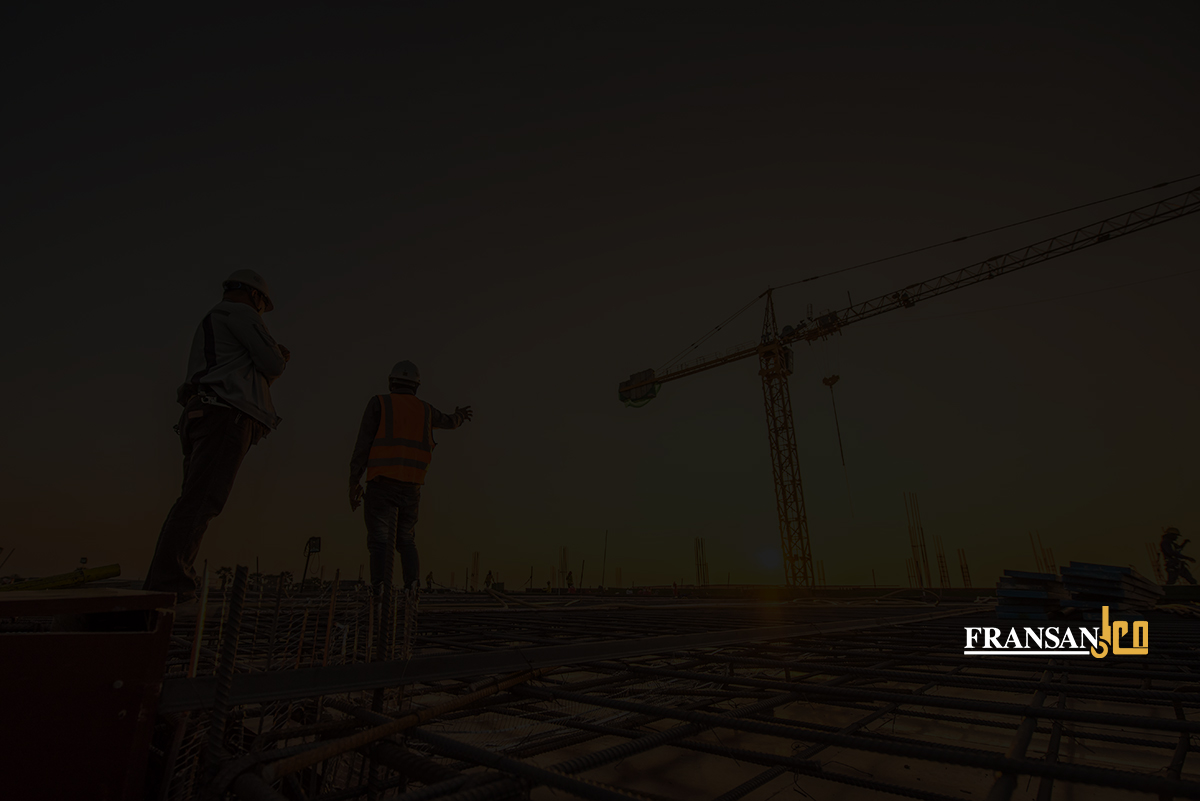
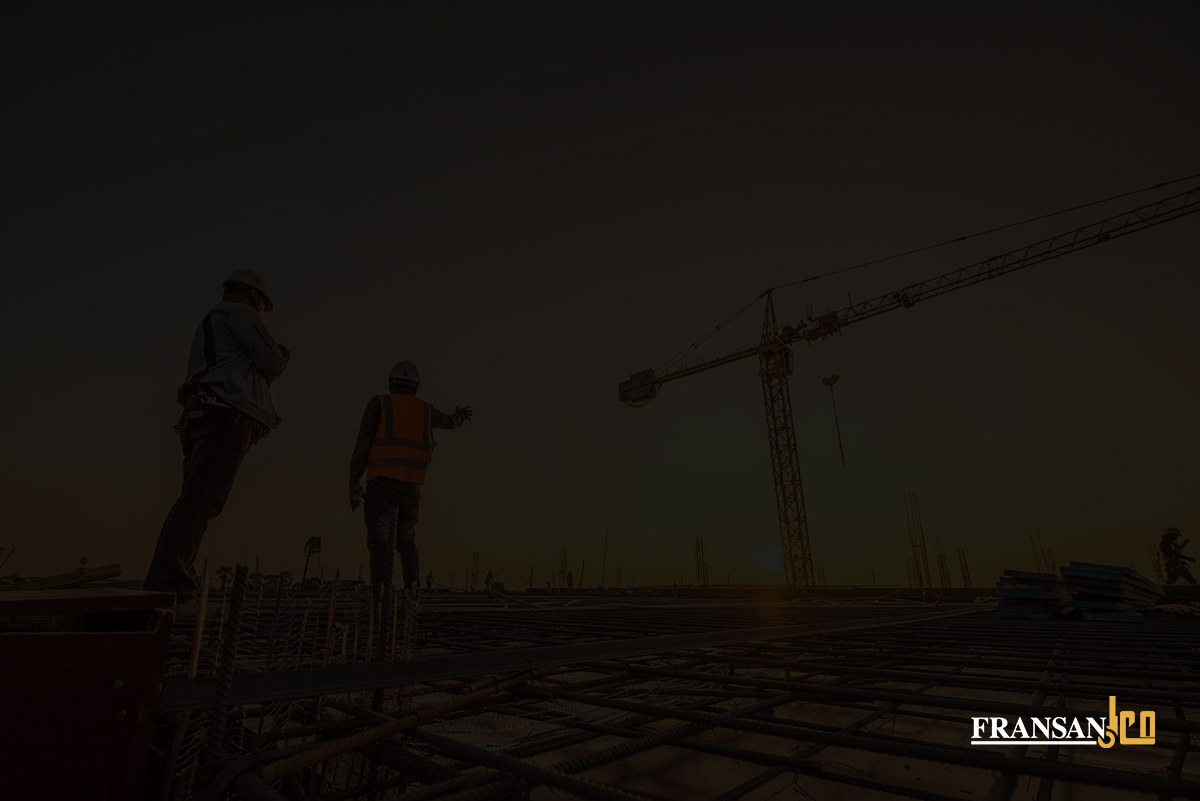
se ajusta imagen de fondo card

Changed region(s): [[0.8017, 0.8739, 0.9867, 0.9363], [0.8017, 0.7491, 0.9558, 0.8427]]

diff --git a/css/styles.css b/css/styles.css
@@ -963,11 +963,15 @@ footer .copy p {
   font-size: 14px !important;
 }
 
+.card {
+  background-color: transparent !important;
+}
+
 .modal-card {
   background-image: url(../img/fondo-card.jpg) !important;
-  background-position: center center;
-  background-size: cover;
-  background-repeat: no-repeat;
+  background-position: bottom right !important;
+  background-size: cover !important;
+  background-repeat: no-repeat !important;
   background: transparent;
 }
 

diff --git a/css/styles.scss b/css/styles.scss
@@ -902,12 +902,14 @@ footer {
 }
 
 // CATALOGO
-
+.card{
+    background-color: transparent!important;
+}
 .modal-card {
     background-image: url(../img/fondo-card.jpg) !important;
-    background-position: center center;
-    background-size: cover;
-    background-repeat: no-repeat;
+    background-position: bottom right!important;
+    background-size: cover!important;
+    background-repeat: no-repeat!important;
     background: transparent;
 }
 
